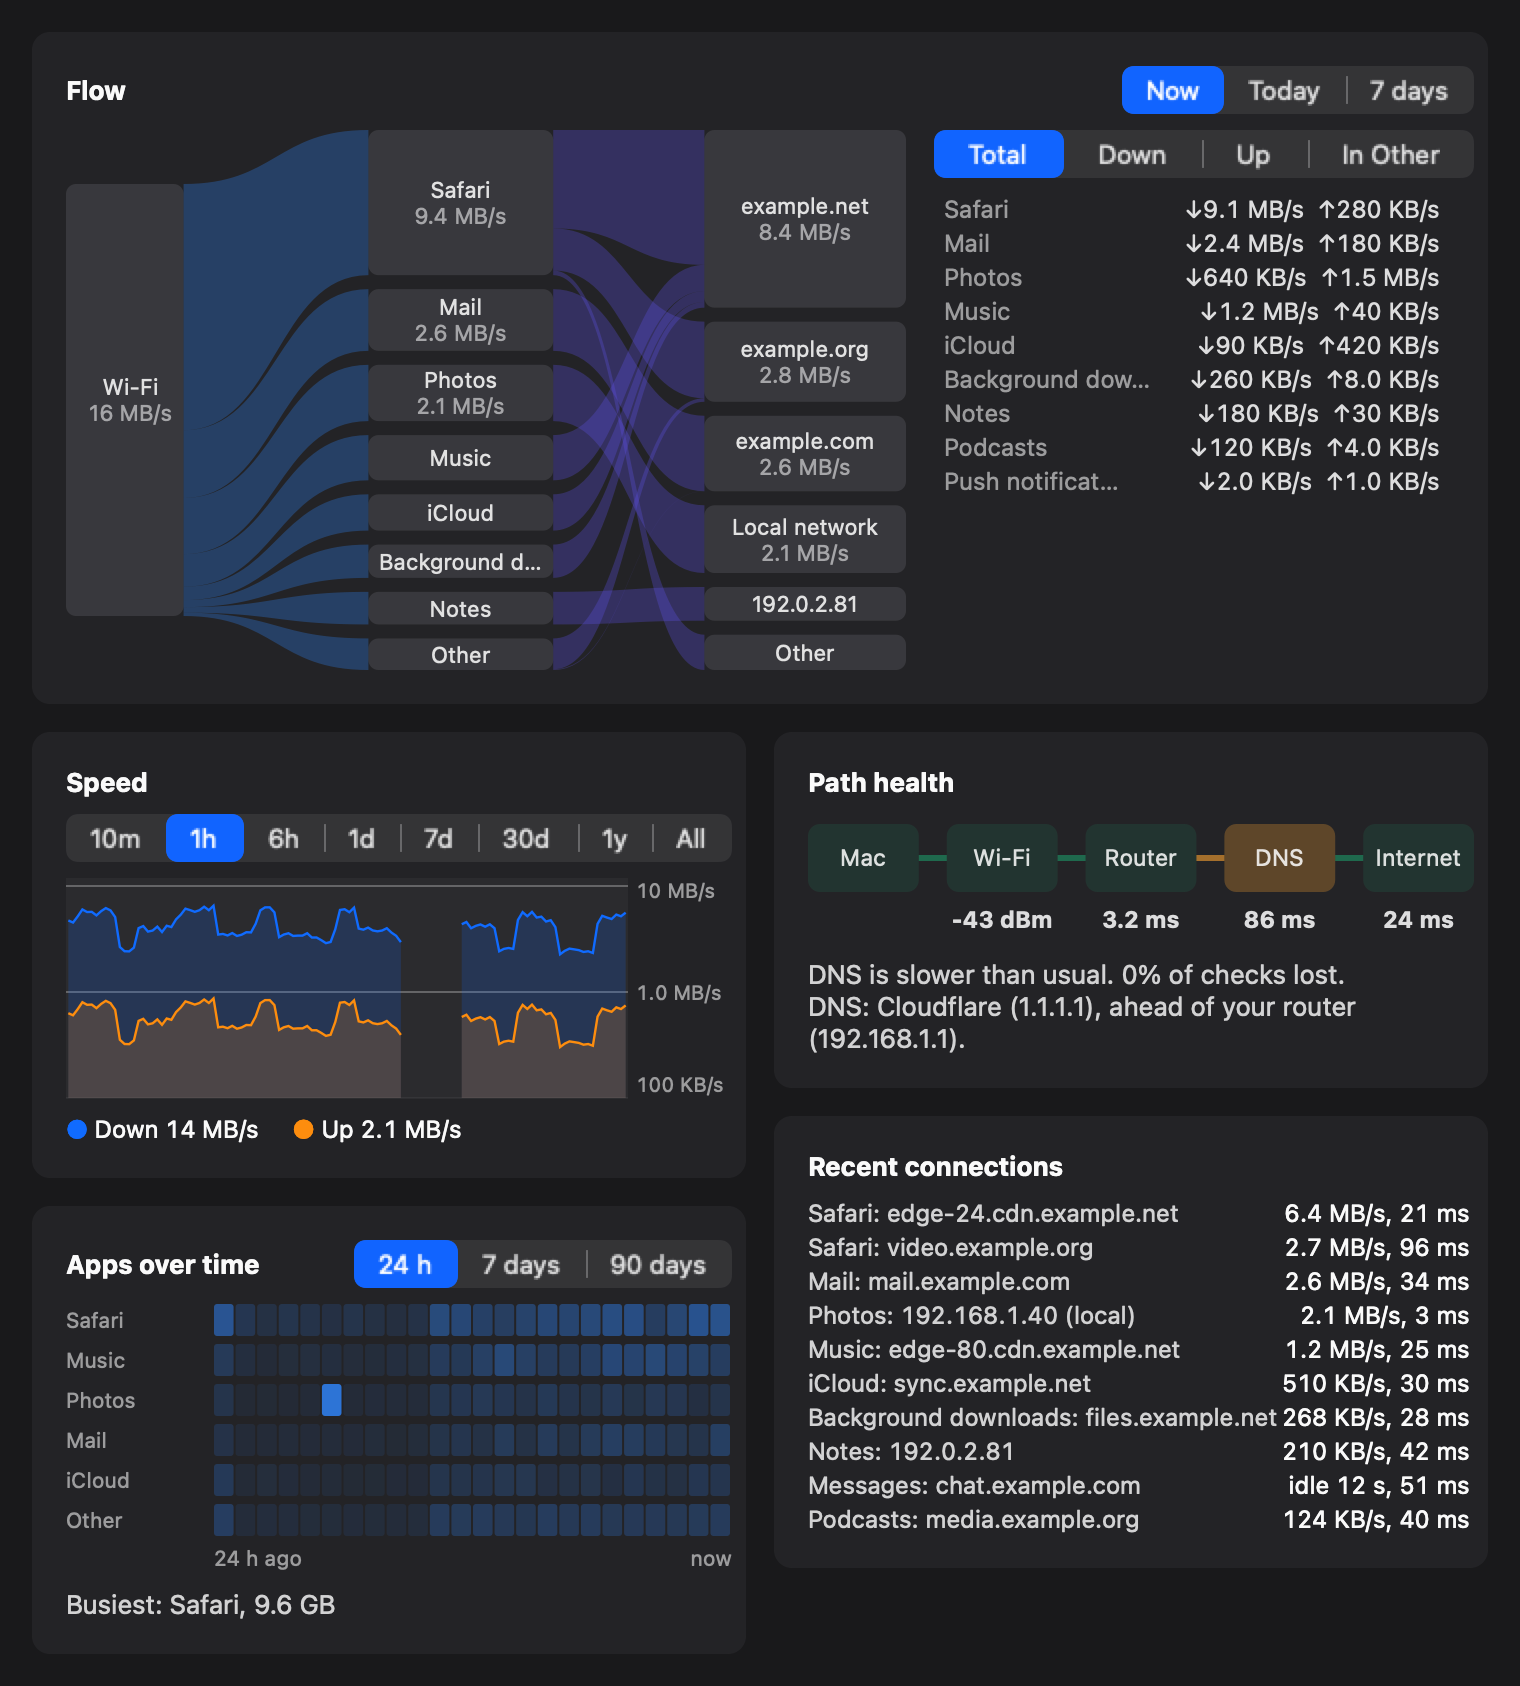
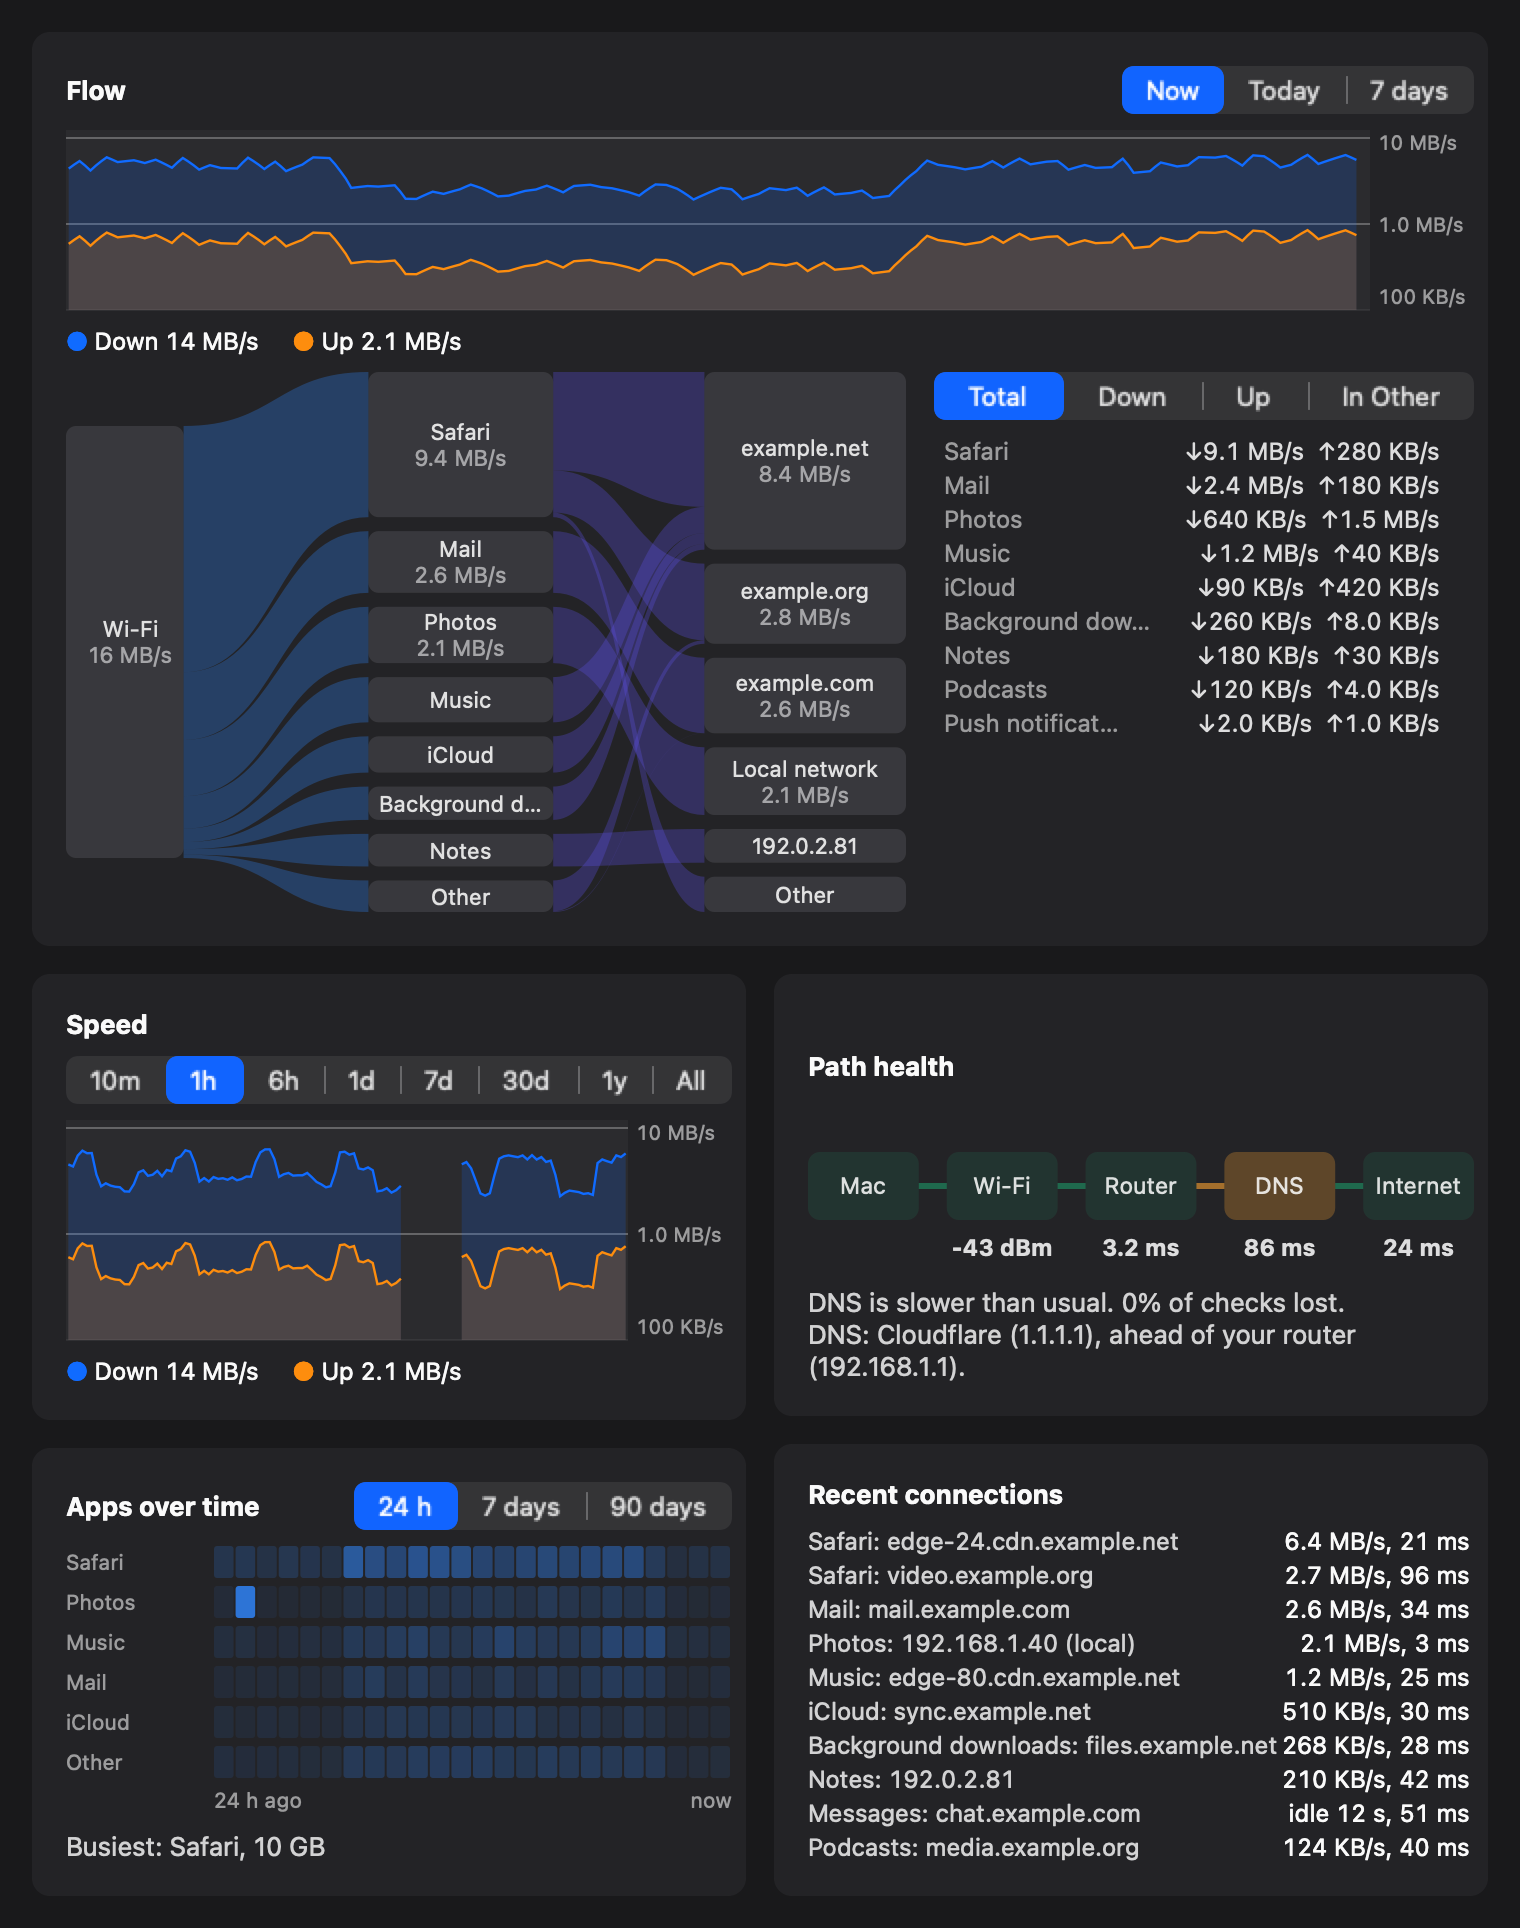
docs: describe the new history graphs and refresh their screenshots
The README said the Network and Power graphs were only in their windows.
Describe the panel graphs and the download graph above the Network
window's flow, and regenerate the three affected images from sample data.

Changed region(s): [[0.0309, 0.0308, 0.9895, 0.987], [0.9276, 0.586, 0.9586, 0.6477], [0.0618, 0.3084, 0.0928, 0.3393]]

diff --git a/README.md b/README.md
@@ -24,14 +24,14 @@ On the MacBook Pro, fan control has been tested with both fans moving between 2,
 
 ## Features
 
-- **Network:** a flow diagram from your connection to apps to where their traffic goes, with soft points of light drifting along it while data moves. Also live speed, data used today and this month, Wi-Fi signal, the DNS server in use, recent connections, and a check of each step to the internet. The menu bar item keeps a steady width so the items beside it don't shift
-- **Network window:** the flow now, today or over 7 days, speed history, which apps used the network hour by hour for up to 90 days, path health with the DNS server in use, and recent connections, which stay listed for a minute after they go quiet
+- **Network:** a flow diagram from your connection to apps to where their traffic goes, with soft points of light drifting along it while data moves. Also live speed with a history graph of download and upload, data used today and this month, Wi-Fi signal, the DNS server in use, recent connections, and a check of each step to the internet. The menu bar item keeps a steady width so the items beside it don't shift
+- **Network window:** a graph of how much came in and went out, above the flow, for now, today or the last 7 days, with that period's totals. Also speed history, which apps used the network hour by hour for up to 90 days, path health with the DNS server in use, and recent connections, which stay listed for a minute after they go quiet
 - **Memory:** pressure, app, wired, compressed, cached, swap, and top apps
 - **CPU and GPU:** total and per-core load, load average, GPU use, and top apps
 - **Drives:** free space, read and write speed, and NVMe health
 - **Fans:** live speed, temperature, and presets you can add, rename and delete, with fixed speeds or temperature curves
 - **Sensors:** a window listing every temperature, power, voltage and current reading. Named sensors are from community research and apply to M1 chips; the rest keep their raw codes
-- **Power:** a diagram of power flowing from the adapter and battery to the display, charging, devices on USB like a charging iPhone, and the rest of the Mac, plus a window with adapter details, battery health, and graphs. AirPods and other accessories that report a charge are listed too. An iPhone charging by cable doesn't share its battery level with the Mac, so that isn't shown
+- **Power:** a diagram of power flowing from the adapter and battery to the display, charging, devices on USB like a charging iPhone, and the rest of the Mac, with a history graph of the power used and coming in. A window adds adapter details, battery health, and more graphs. AirPods and other accessories that report a charge are listed too. An iPhone charging by cable doesn't share its battery level with the Mac, so that isn't shown
 - **Countries:** an optional setting that shows which country each connection goes to, using [DB-IP](https://db-ip.com)'s free country file
 - **Charge limit:** sets the limit built into macOS 27, from 80% to 100%, with Top Up to charge to full once. It doesn't need the fan helper, and FlowGauge doesn't touch battery hardware directly
 - **Graphs:** ranges from 10 minutes to All, which grows with the saved history, with line, area or bar styles
@@ -45,9 +45,9 @@ The Power window, with power flow, battery and adapter details:
 
 ![Power window with a flow diagram, cards and graphs](docs/images/power-window.png)
 
-The Network window, with the flow, app timeline and path check:
+The Network window, with download and upload over time, the flow, app timeline and path check:
 
-![Network window with a flow diagram, speed graph, app timeline, path health and connections](docs/images/network-window.png)
+![Network window with a download history graph, flow diagram, speed graph, app timeline, path health and connections](docs/images/network-window.png)
 
 Drives, CPU and Power panels:
 
